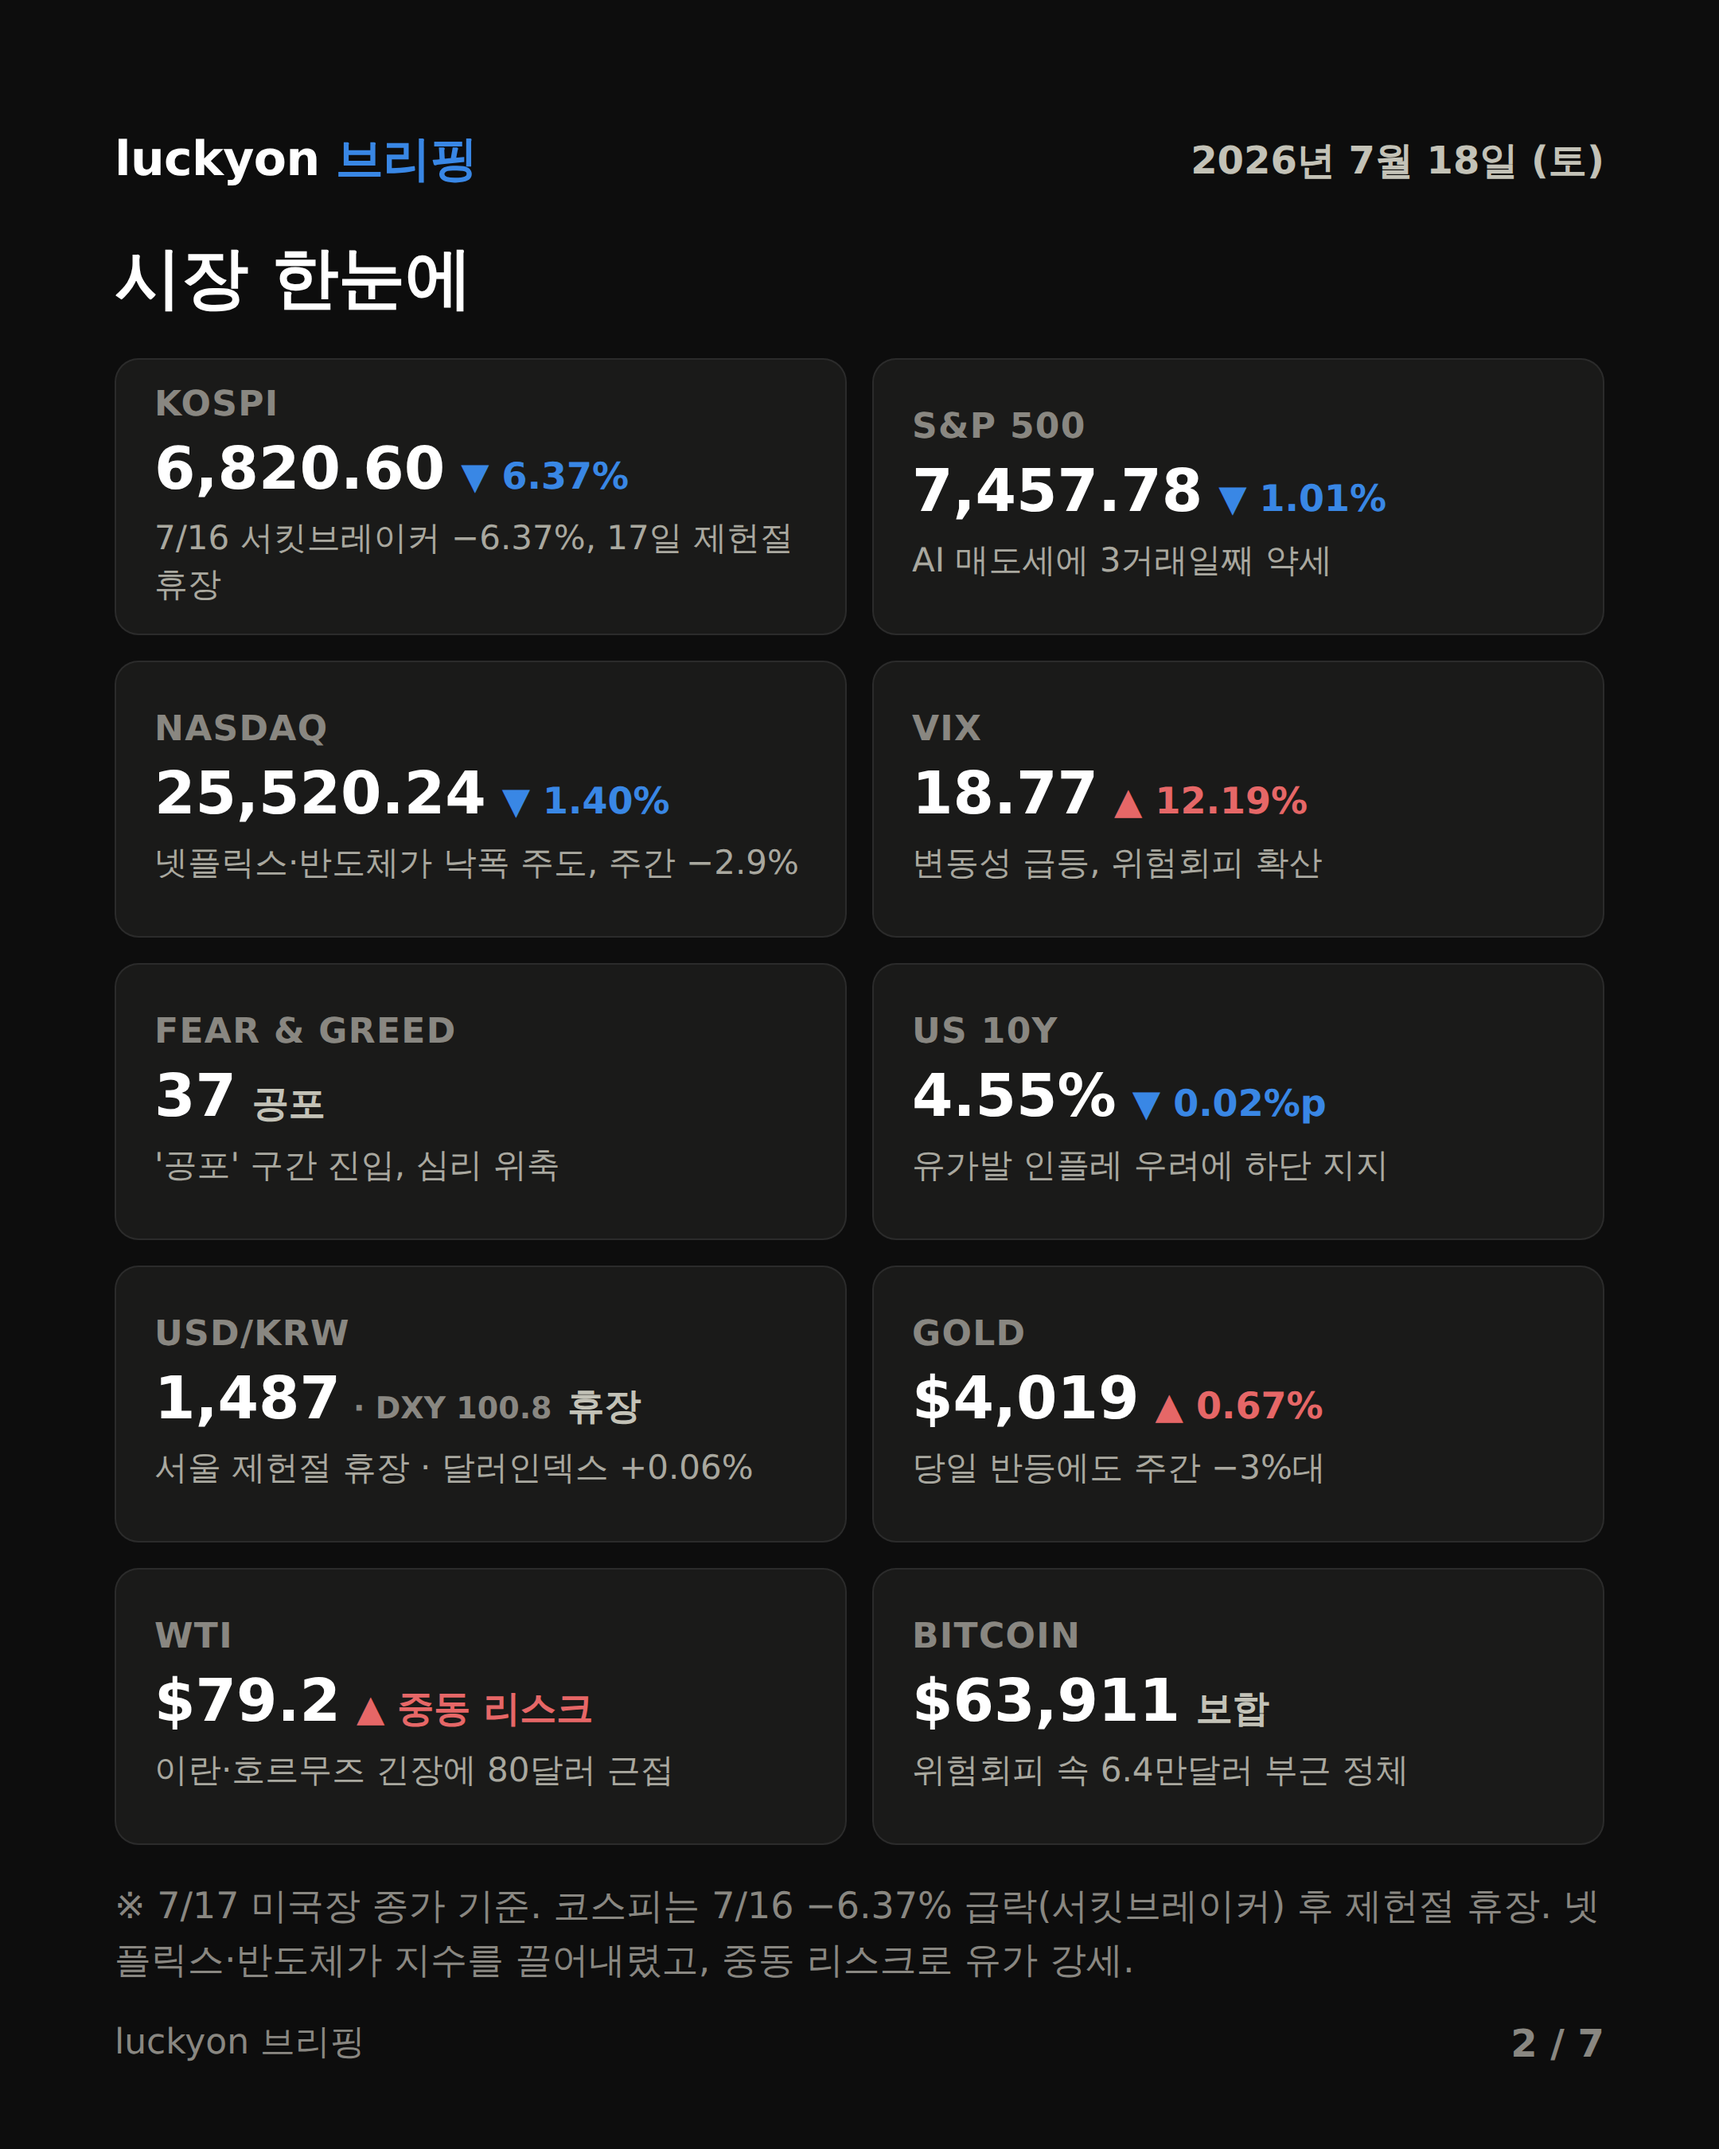
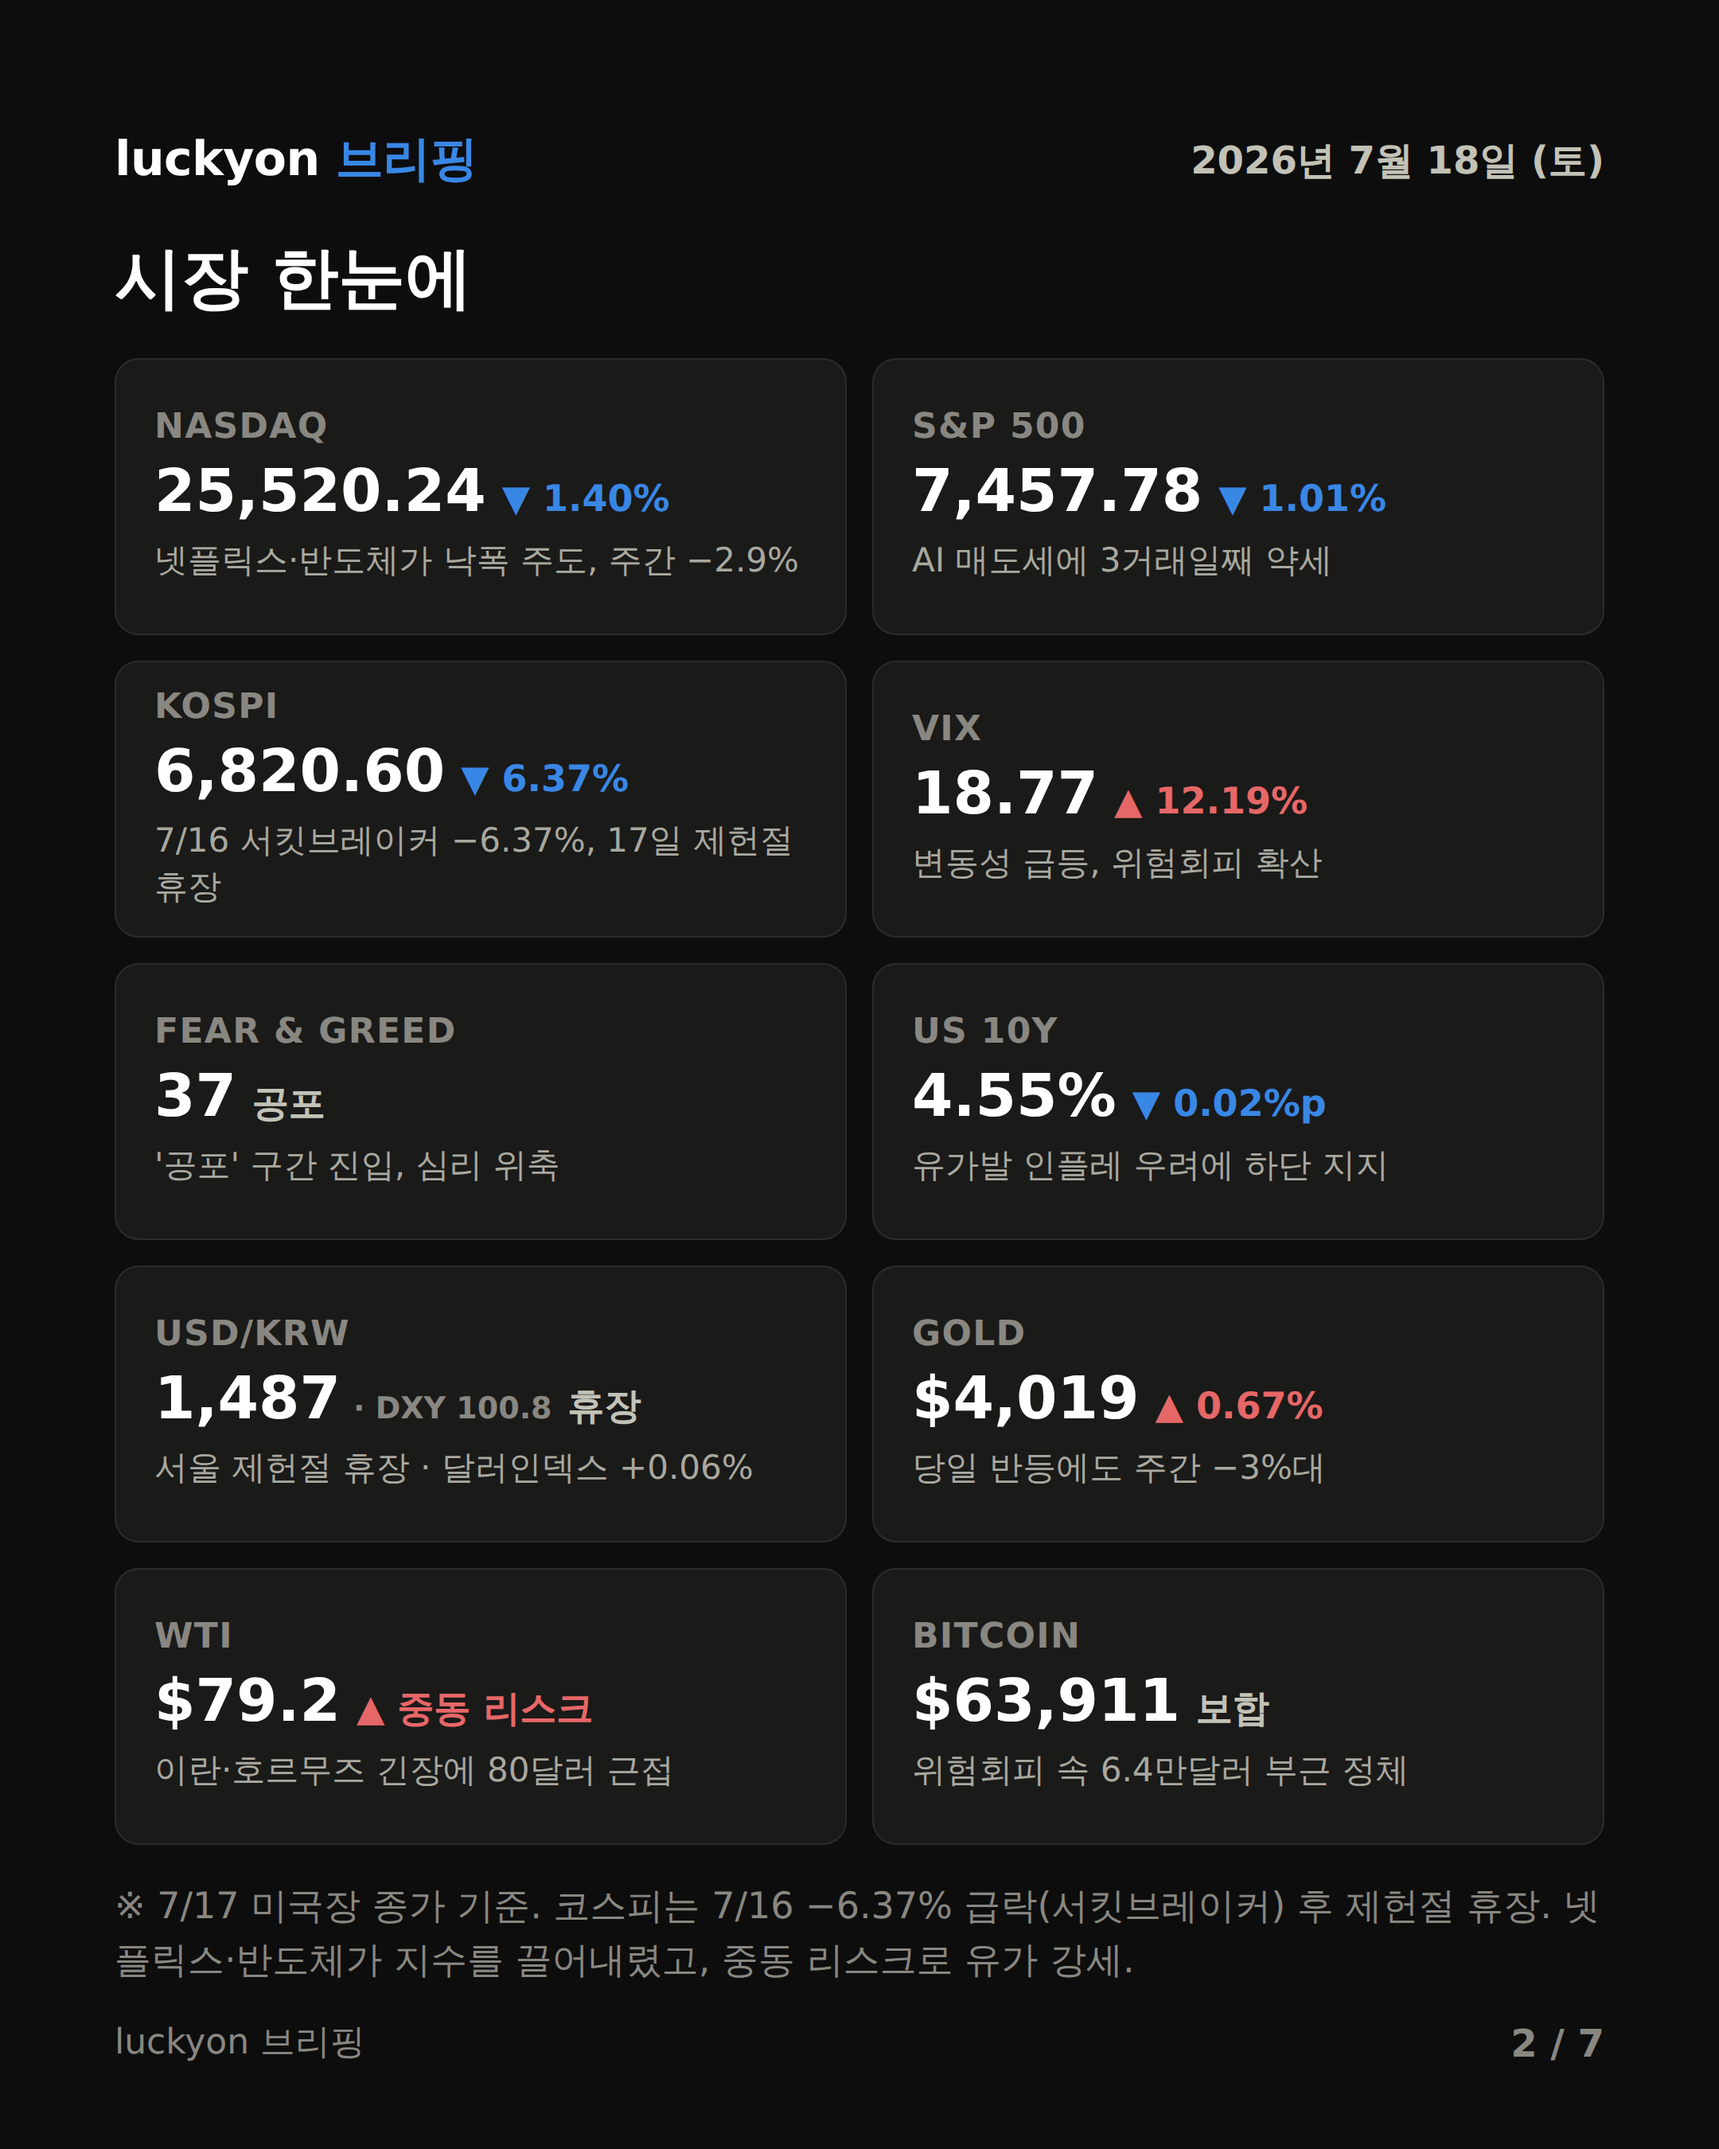
Reorder card 2 tiles (NASDAQ, S&P, KOSPI…) + add pm futures rehearsal
- Card 2 tile order changed to NASDAQ, S&P 500, KOSPI, then unchanged
  (VIX, Fear&Greed, US 10Y, USD/KRW, Gold, WTI, Bitcoin). Applied to
  ROUTINE_PROMPT.md 3-a and the am rehearsal content.
- Added a pm rehearsal (2026-07-16-pm): S&P/NASDAQ shown as 선물 tiles
  (per the pm value semantics), KOSPI anchored on the real 7/16 -6.37%
  circuit-breaker close, DXY annotated on USD/KRW. Futures and evening
  macro values are placeholders pending the Apify actor wiring; the
  market note states this.

Claude-Session: https://claude.ai/code/session_01MYWQUAU9yh4neaZo1rYbGq

Changed region(s): [[0.0931, 0.1867, 0.4653, 0.28], [0.0931, 0.3111, 0.4653, 0.4356]]

diff --git a/ROUTINE_PROMPT.md b/ROUTINE_PROMPT.md
@@ -65,7 +65,7 @@
 3. **뉴스 리서치**: WebSearch로 최신 뉴스를 조사한다. (2-a에서 기존 파일을 재사용하기로 했다면 이 단계는 건너뛴다.)
 
    **3-a. 시장 지표 (markets 10개 타일)** — **아침·저녁 동일한 10개**로 통일한다 (순서 고정):
-   `코스피` · `S&P 500` · `나스닥` · `VIX` · `Fear&Greed` · `미 10년물 금리` · `원/달러(달러인덱스 DXY 병기)` · `금` · `WTI 원유` · `비트코인`.
+   `나스닥` · `S&P 500` · `코스피` · `VIX` · `Fear&Greed` · `미 10년물 금리` · `원/달러(달러인덱스 DXY 병기)` · `금` · `WTI 원유` · `비트코인`.
    - **세션별로 다른 것은 "타일 종류"가 아니라 "값의 성격"뿐이며, 이는 한 줄 해석(note)으로 밝힌다:**
      - `am`(아침, 미국장 마감 후): S&P 500·나스닥은 **미국장 마감 종가**. 코스피는 전 거래일 종가(장 열리기 전).
      - `pm`(저녁, 미국장 개장 전): S&P 500·나스닥은 **선물(futures)** 로 표기하고 note 에 "선물"임을 밝힌다 (`scripts/fetch-futures.mjs` + Apify 액터로 조회, `apify/futures-scraper/` 참고). 코스피는 당일 종가.
